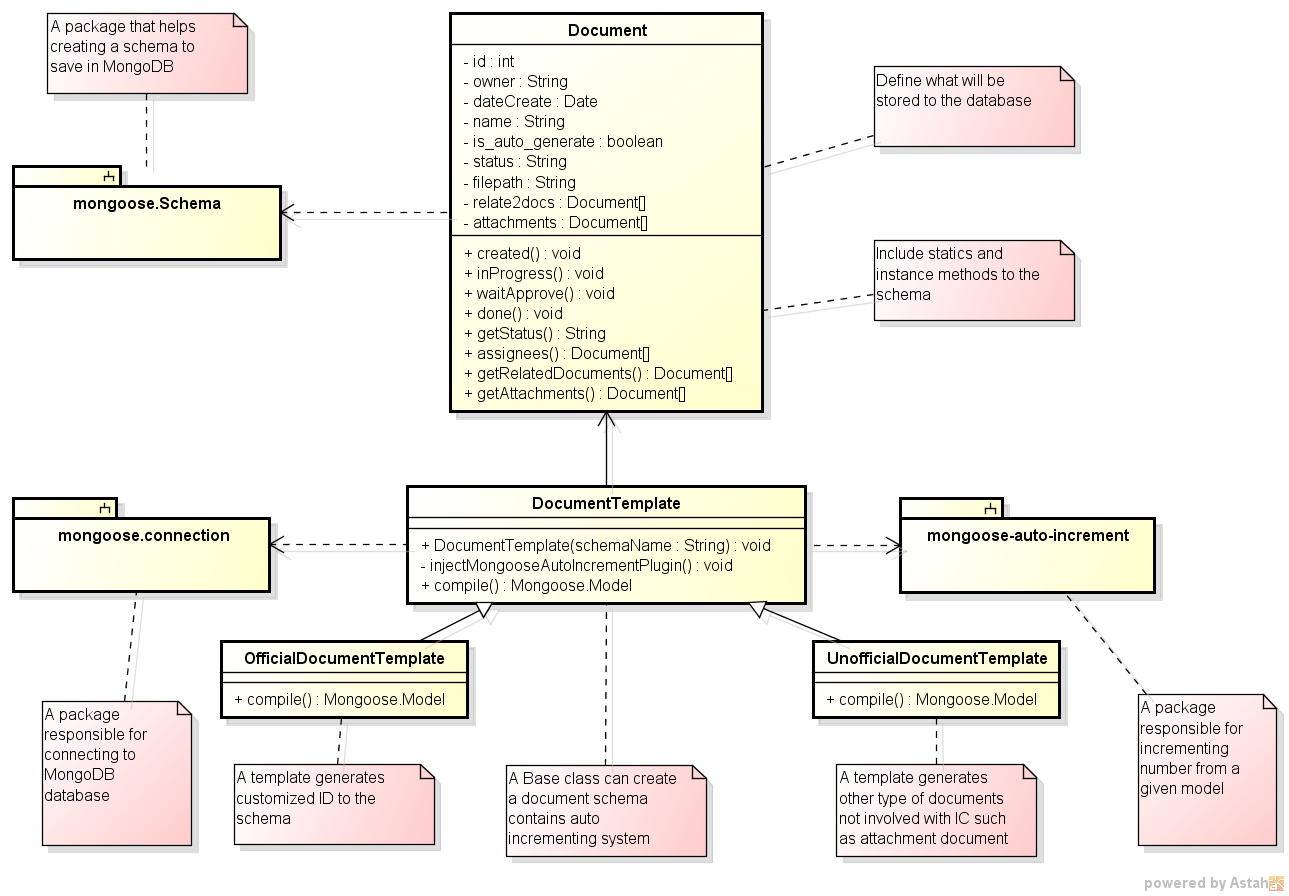
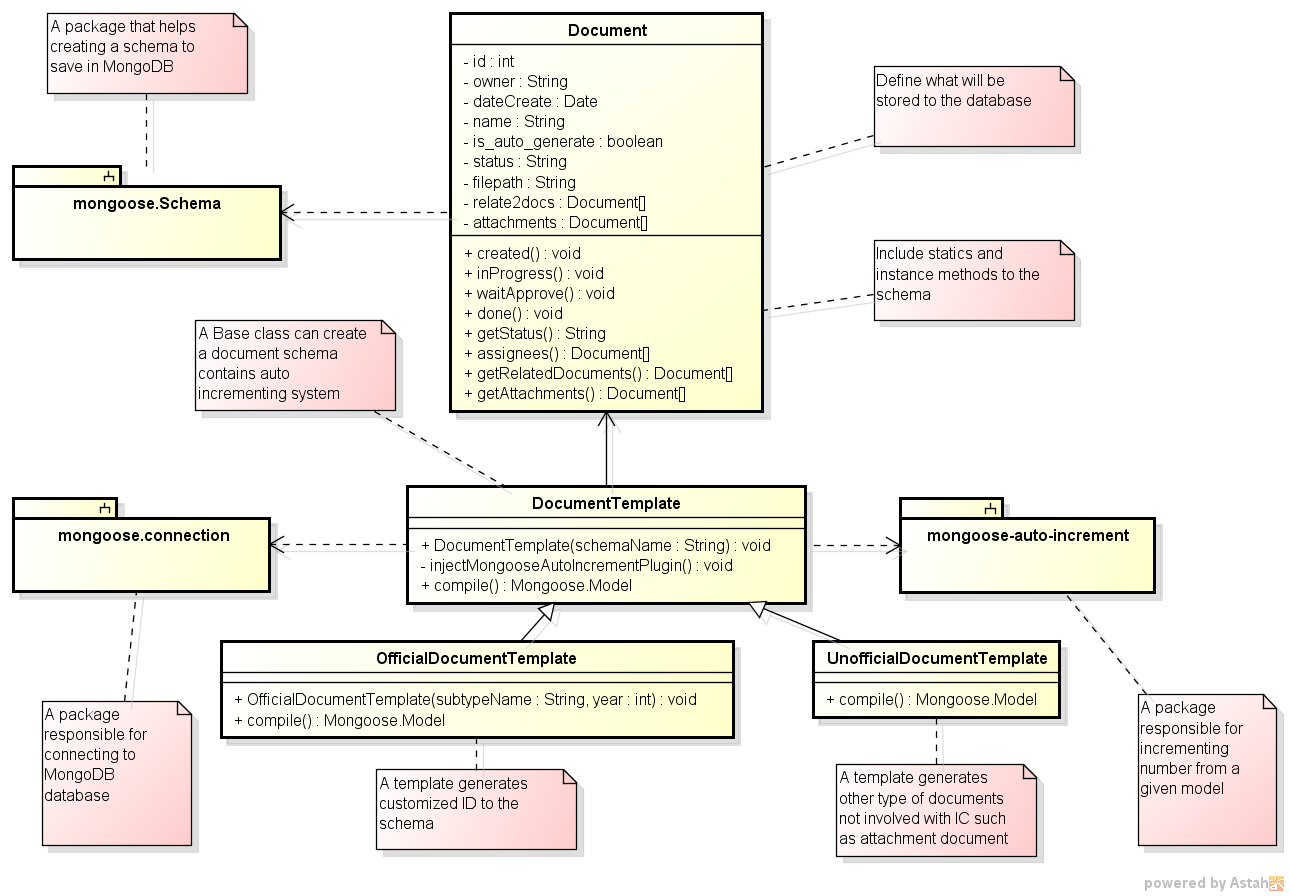
DocumentTemplate class and method description

Changed region(s): [[0.1552, 0.6562, 0.5896, 0.9688], [0.1552, 0.3438, 0.3103, 0.4688]]

diff --git a/software-design.tex b/software-design.tex
@@ -303,6 +303,42 @@ Table \ref{uml:document-method} describes each method in detail.
 	getAttachments & array of \textit{Document} & Get all attachments. \\
 \end{longtable}
 
+\textit{DocumentTemplate} applies auto increment functionality to the schema.
+Every time the schema is saved, it invokes the auto increment functionality automatically.
+In design pattern, \textit{DocumentTemplate} is a factory that creates instance object according to given parameters.
+There are two subclasses inherits \textit{DocumentTemplate}, \textit{OfficialDocumentTemplate} and \textit{UnOfficialDocumentTemplate}.
+\textit{OfficialDocumentTemplate} creates a document template based on a given type name and year.
+They are used to create a document with custom identification code as stated in table \ref{tbl-doc-subtype}.
+The purpose of \textit{UnOfficialDocumentTemplate} is to create external documents and attachments.
+It has the same functionality as \textit{DocumentTemplate}.
+Table \ref{uml:document-template} explains what each method does.
+
+\begin{longtable}{L{4cm}L{2.5cm}L{7.5cm}}
+	\caption{\textit{DocumentTemplate} description}
+	\label{uml:document-template} \\
+	\hline
+	Method & Return data type & Description \\
+	\hline
+	\endfirsthead
+	
+	\hline
+	Method & Return data type & Description \\
+	\hline
+	\endhead		
+	
+	\hline \multicolumn{3}{r}{{Continued on next page}} \\ \hline
+	\endfoot
+	
+	\hline \hline
+	\endlastfoot
+	
+	OfficialDocumentTemplate & & A class constructor that receives document type and year to generate an identification code. \\
+	
+	injectMongooseAutoIncrementPlugin & &  Inject \textit{mongoose-auto-increment} package to the schema as a plugin so that the schema can increment the number every time before saving the database. \\
+	
+	compile & \textit{mongoose.model} & Create a model from a schema because the \textit{mongoose.Schema} package requires \textit{mongoose.connection} in order to prepare the schema suitable for saving to the database.
+\end{longtable}
+
 \subsection{where digital files should reside in the the server}
 
 \section{Retrieving Digital Documents}
